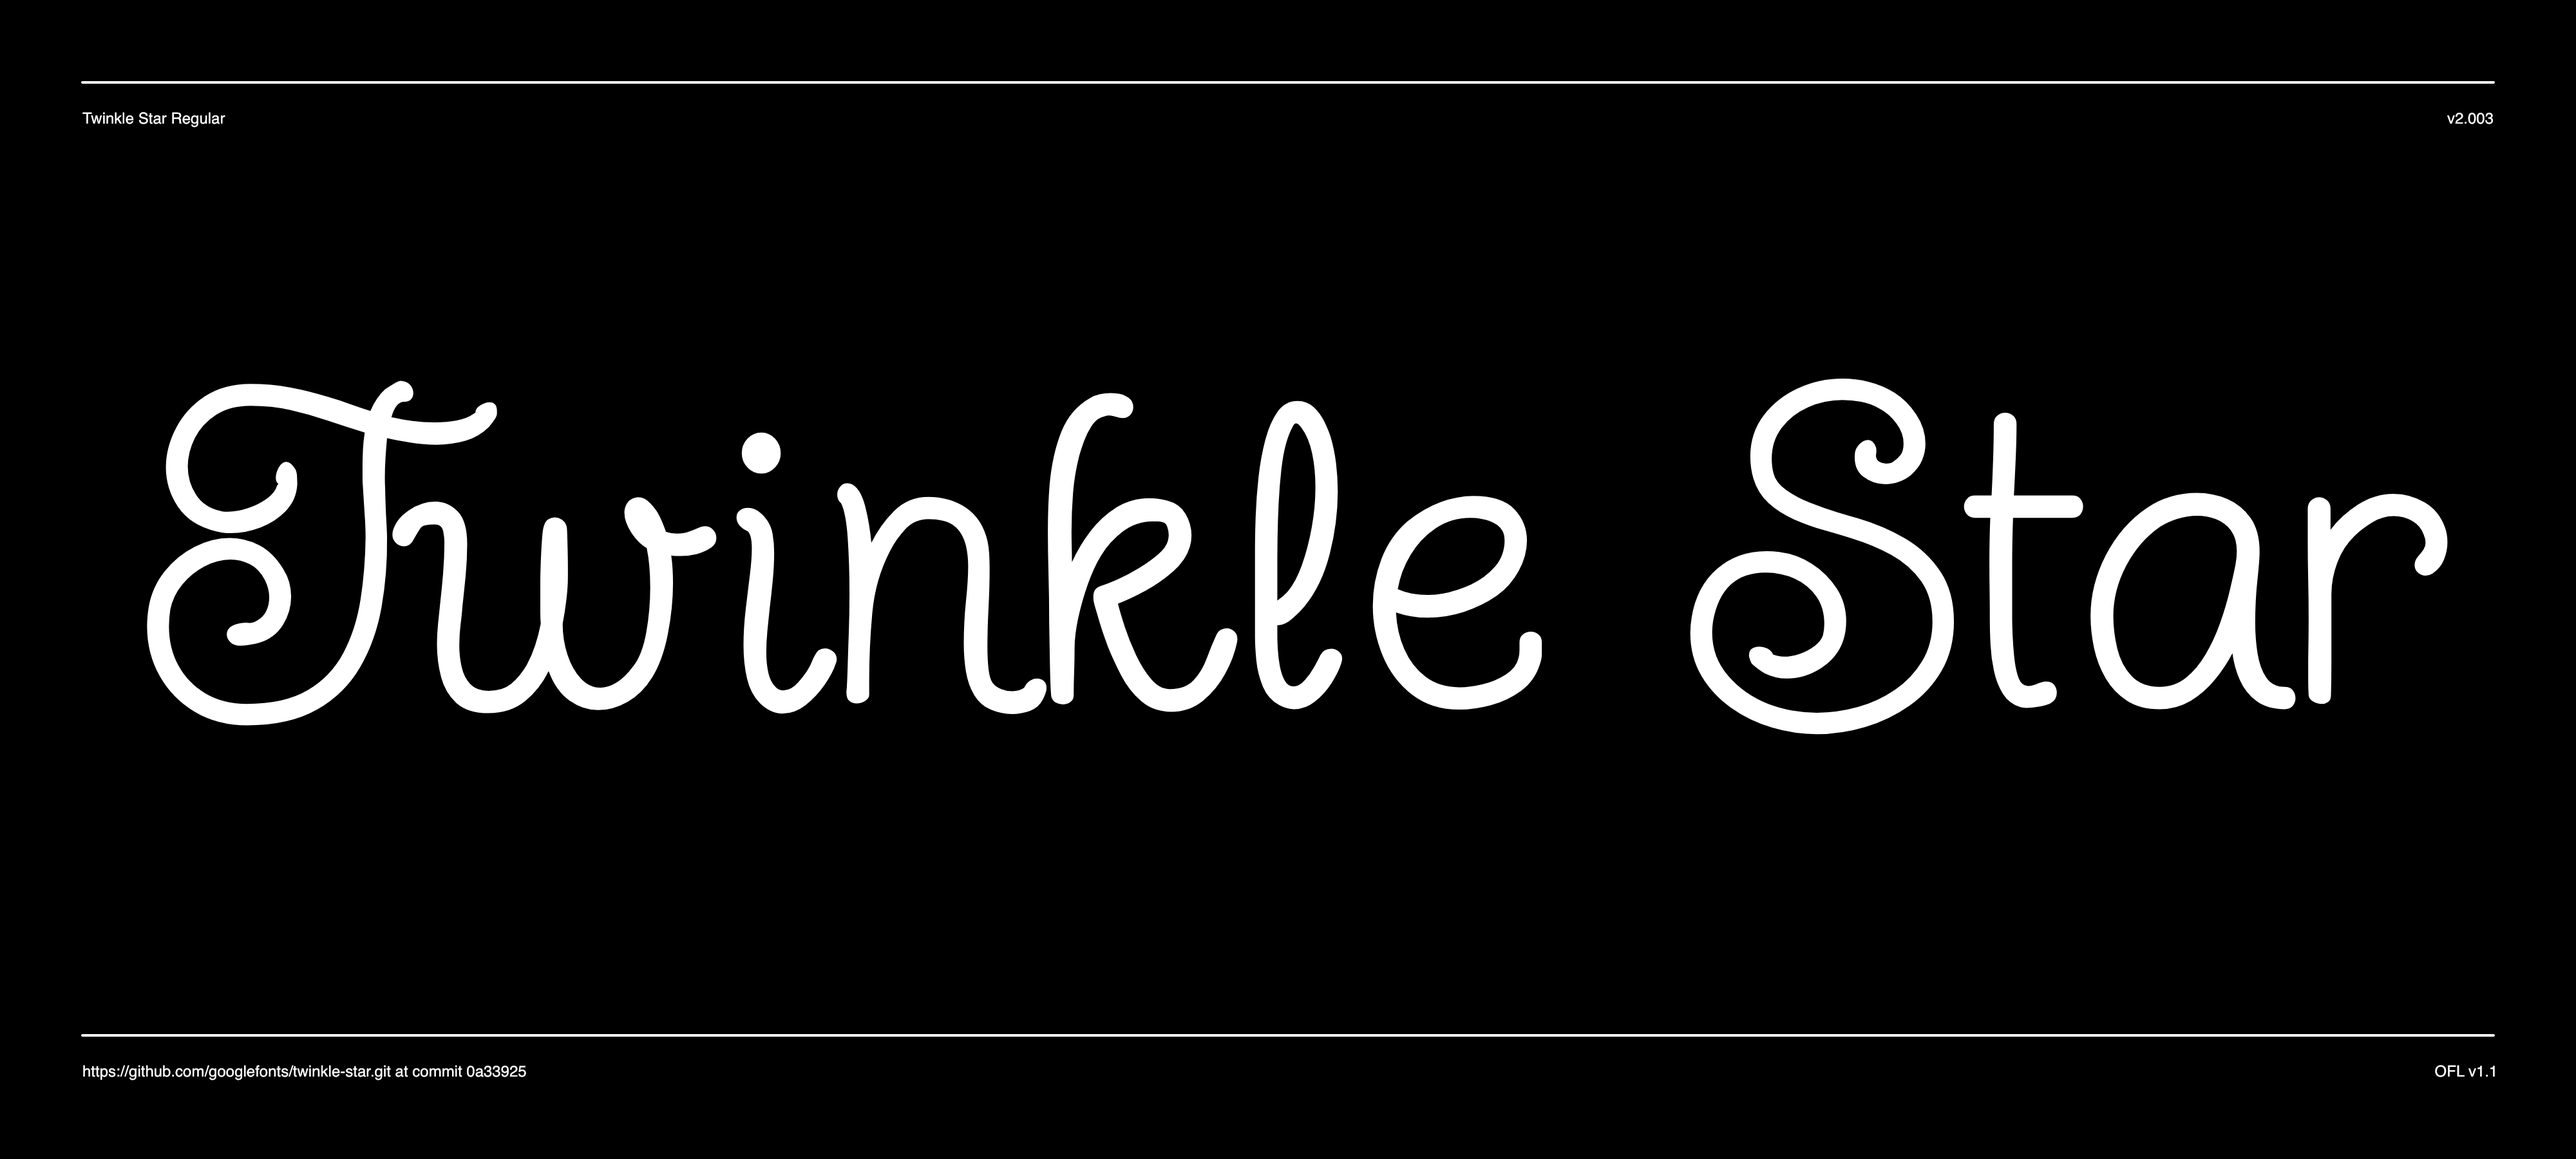
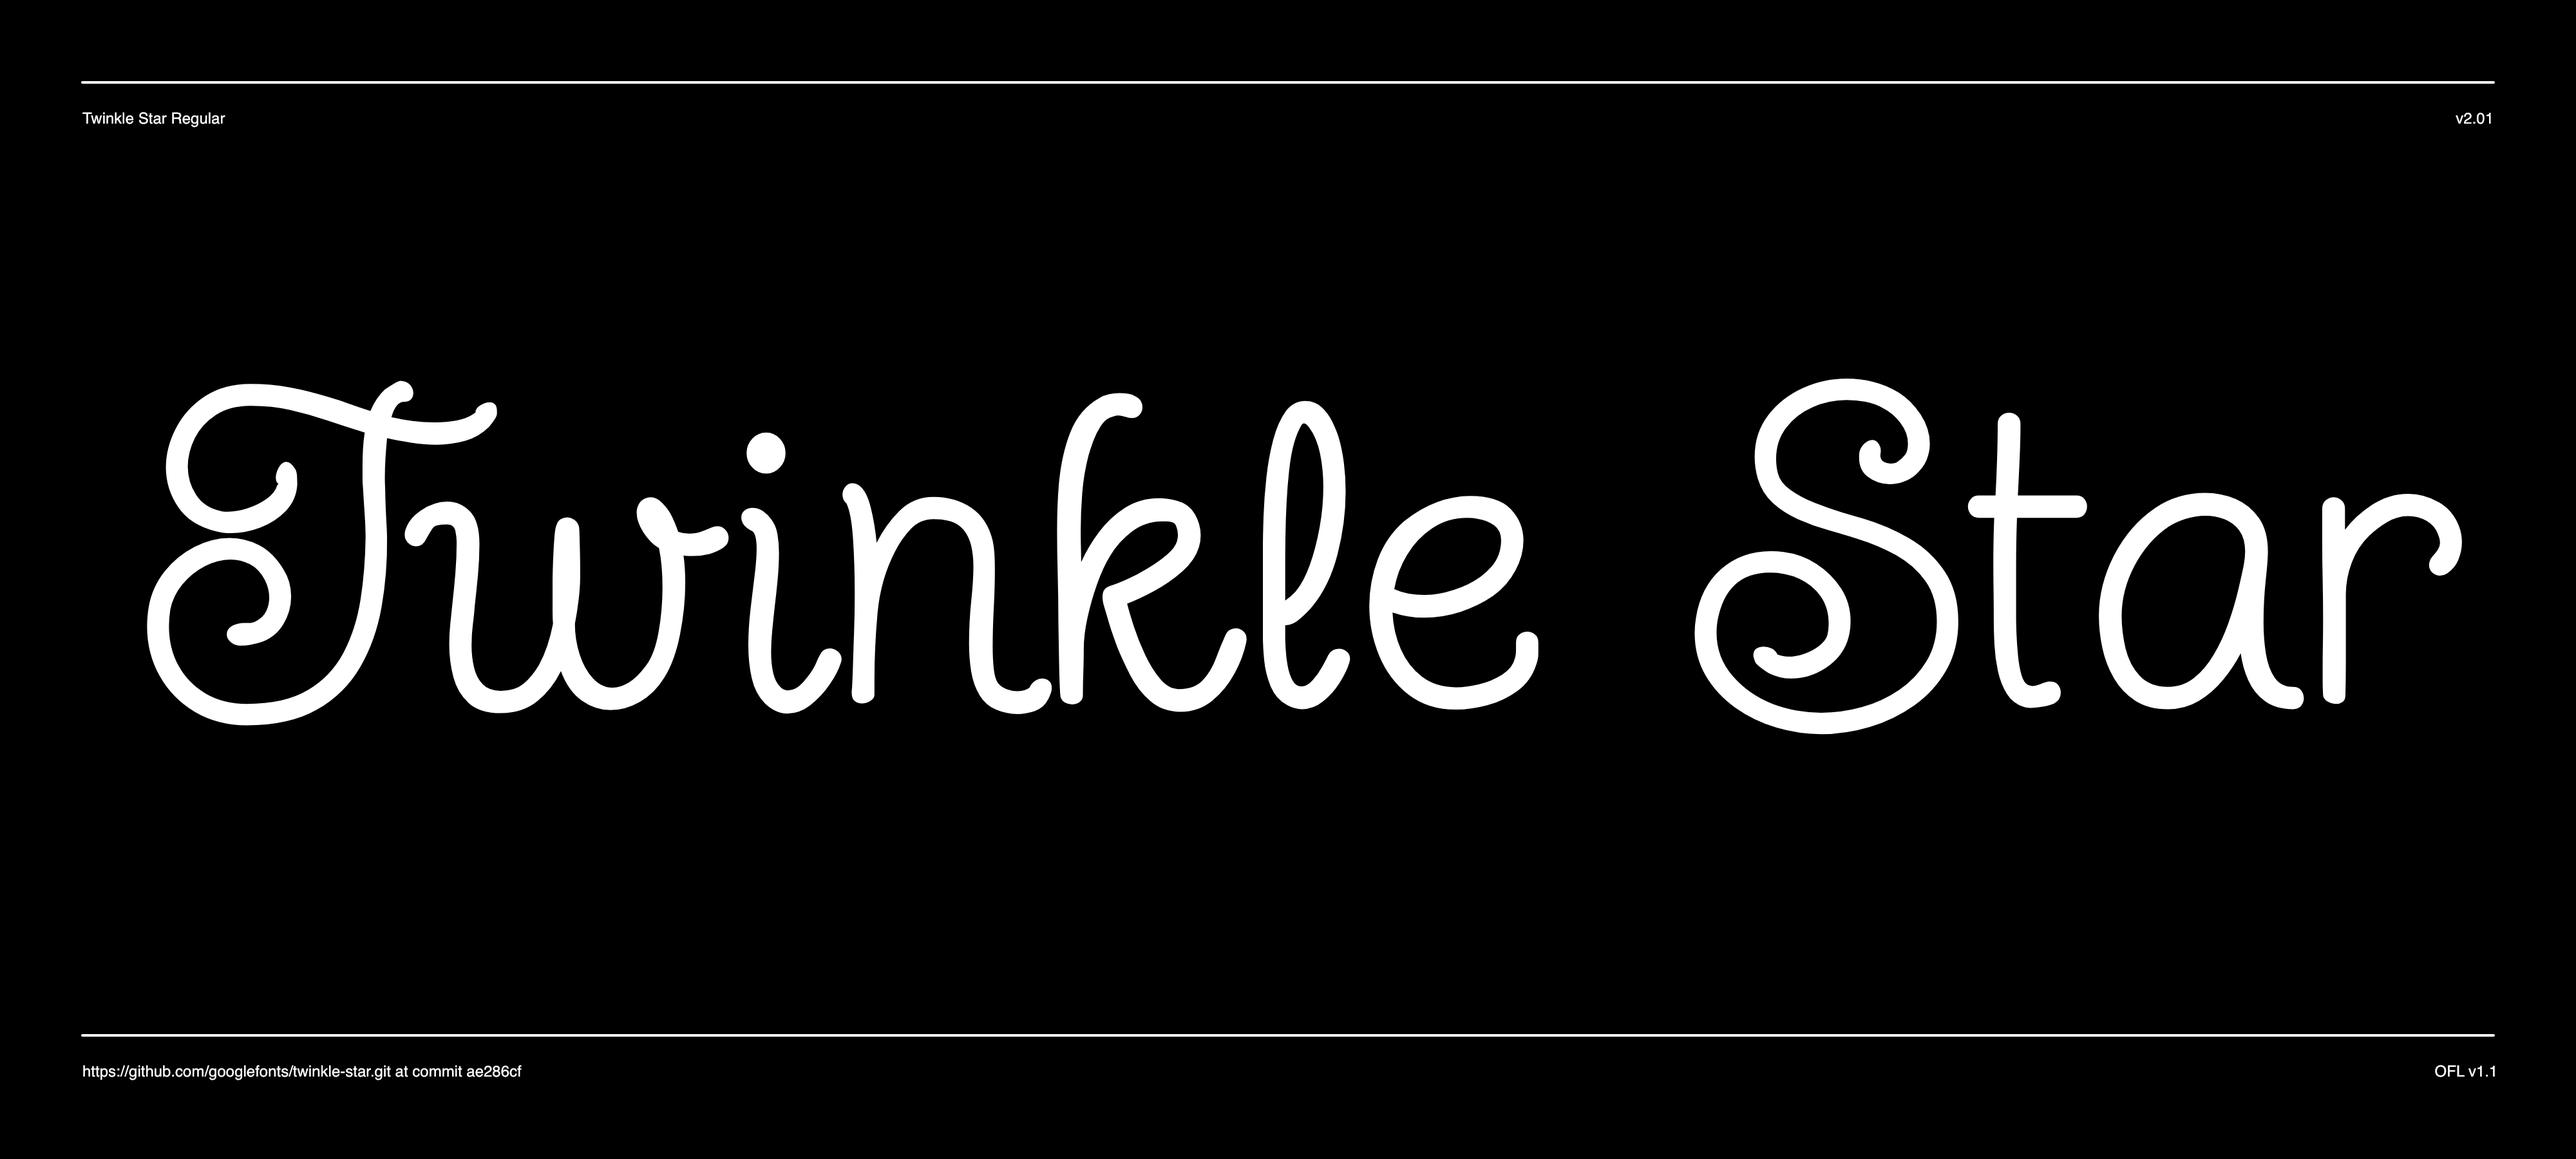
Sample image updated

diff --git a/README.md b/README.md
@@ -1,6 +1,6 @@
 # Twinkle Star
 
-Twinkle Star is a cute and fun juvenile script. It comes in two styles: A Script style with has a more feminine quality while the more legible casual forms are easier for children to read. 
+Twinkle Star is a cute and fun juvenile script. It comes in two styles: A Script style with a more curvy quality and a casual style with more children writing resemblance. 
 
 ![Sample Image](documentation/image1.png)
 
